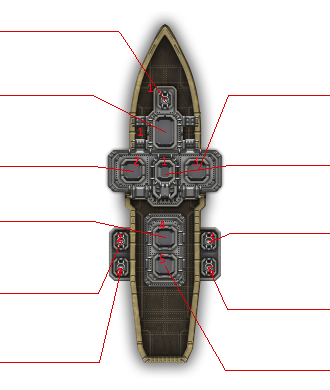
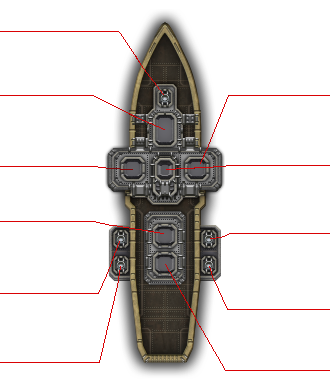
ship on shop prettyer. money amount reset

Changed region(s): [[0.303, 0.0308, 0.697, 0.9538], [0.4545, 0.8, 0.5152, 0.8308]]

diff --git a/core/src/com/deeep/jam/screens/GameScreen.java b/core/src/com/deeep/jam/screens/GameScreen.java
@@ -115,6 +115,8 @@ public class GameScreen implements Screen {
 
         if (!Game.MUTE)
             inGameMusic.play();
+
+        money_amount = 1000;
     }
 
     private void prepareAudio() {
